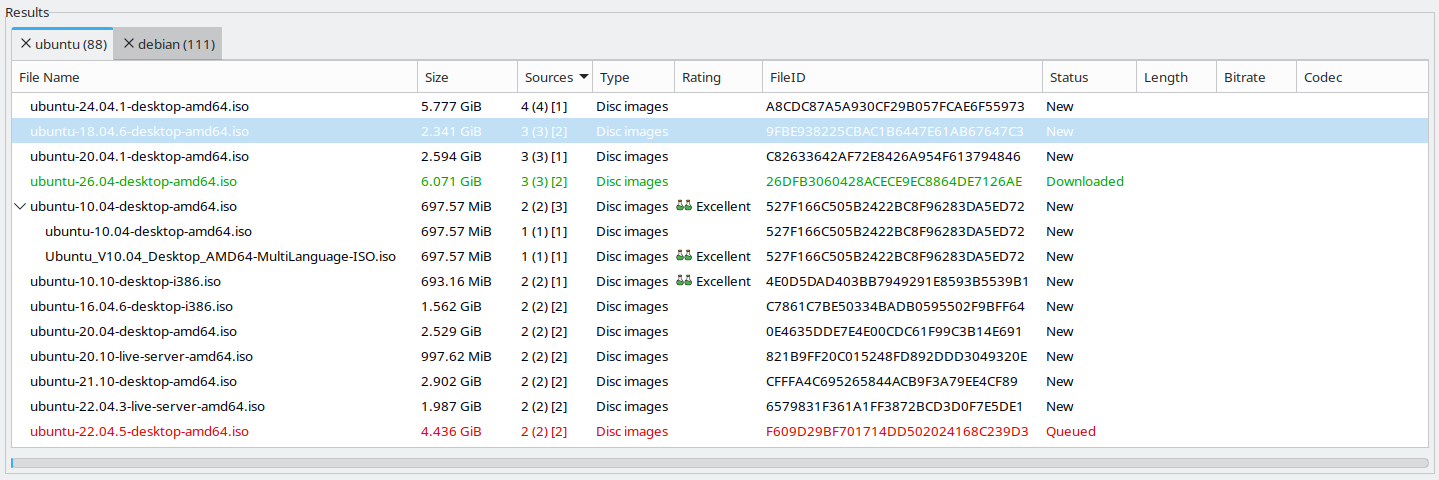
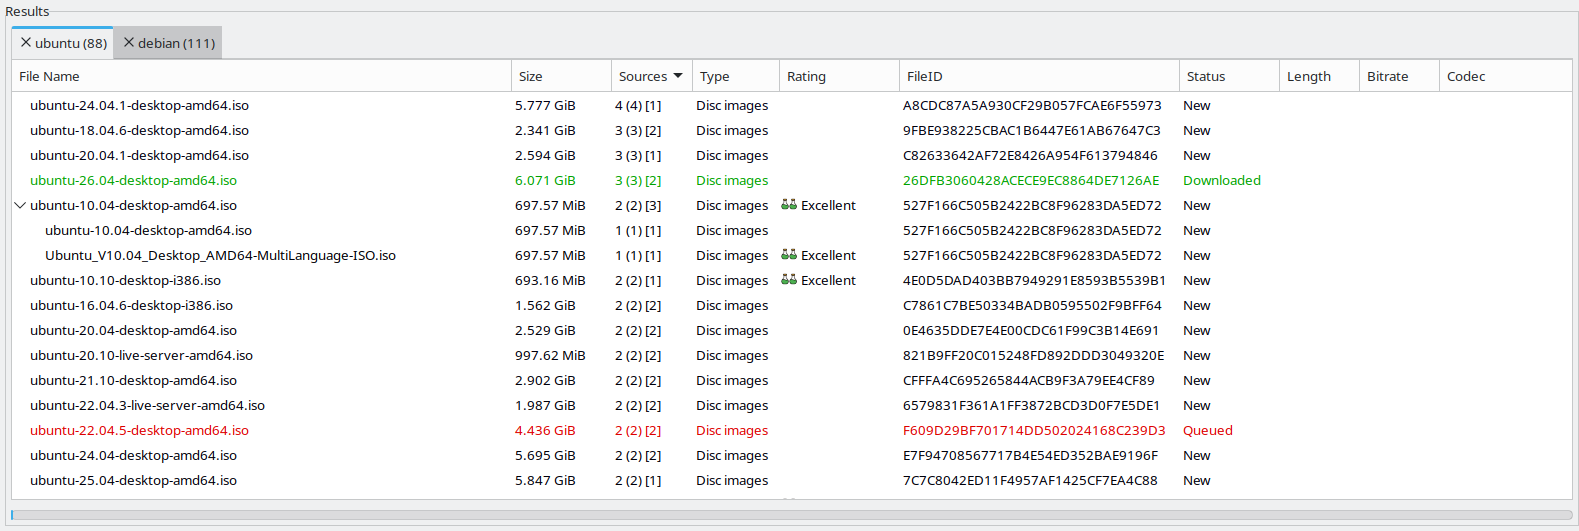
Update Quick Start guide for 3.1.0 first-run wizard, splash and version check
- Walk through the first-run setup wizard page by page, including the
  first-run Info message, finishing or cancelling it and how to run it again
- Document the startup screen and the new-version check
- Replace the removed global Connect button with the per-network buttons
- Update the first-run summaries in installation/index.md, gui/amule.md
  and faq.md
- Document last_version_notified and complete the FirstRunWizardDone entry
- Correct the Auto-update server list behaviour without addresses.dat
  (quickstart, preferences.md) and its label in the files references
- Replace the stale DEFAULT_VERSION_CHECK build option with ENABLE_VERSION_CHECK
- Add wizard, splash and version dialog screenshots; refresh the search
  results and quick start images; reuse the current Networks, status bar
  and Searches captures instead of the old top-level/quickstart copies
  (deleted)

Changed region(s): [[0.0, 0.0, 1.0, 1.0]]

diff --git a/docs/quickstart-guide.md b/docs/quickstart-guide.md
@@ -3,7 +3,7 @@ id: quickstart-guide
 title: Getting Started
 ---
 
-This guide walks you through running [aMule](./index.md) for the first time, from setting your speed limits to downloading and sharing your first files. You don't need to be familiar with the underlying networks to follow it, but you do need aMule installed on your computer.
+This guide walks you through running [aMule](./index.md) for the first time, from the first-run setup wizard to downloading and sharing your first files. You don't need to be familiar with the underlying networks to follow it, but you do need aMule installed on your computer.
 
 Each step links to the detailed reference pages in the [User Manual](./manual/index.md) if you want to go deeper.
 
@@ -15,44 +15,109 @@ aMule makes extensive use of right-click context menus. If you can't find a func
 
 If you haven't installed aMule yet, see the [Installation guide](./manual/installation/index.md) for platform-specific instructions.
 
-Launch aMule from your desktop environment's menu, or by running [`amule`](./manual/interfaces/gui/amule.md) in a terminal. The first time it starts, aMule shows a notification telling you that you are running it for the first time.
+Launch aMule from your desktop environment's menu, or by running [`amule`](./manual/interfaces/gui/amule.md) in a terminal. On the first start, aMule first shows a short **Info** message (*This is the first time you run aMule …*) with links to the website and the issue tracker; it shows the same message the first time you run each new version. Close it with **OK**, and aMule opens the setup wizard described below before it connects to any network.
 
-## 2. Set your speed limits
+## 2. Run the setup wizard {#setup-wizard}
 
-aMule ships with both upload and download caps **disabled by default** (unlimited). On a connection that aMule can saturate this is rarely what you want: it can starve every other application sharing the link, and an uncapped upload can even slow down your own downloads. **Setting realistic limits is strongly recommended.**
+The **aMule first-run setup** wizard collects the handful of settings aMule needs before it goes online. Use **Next** and **Back** to move between its pages and **Finish** on the last one. Every choice can be changed later in [Preferences](./manual/interfaces/gui/preferences.md).
 
-Open [Preferences](./manual/interfaces/gui/preferences.md) (the **Preferences** icon at the top of the window; on macOS, the **Tools** icon), then click the **Connection** tab and set the [Bandwidth Limits](./manual/interfaces/gui/preferences.md#bandwidth-limits):
+:::tip[Running the wizard again]
+aMule has no menu entry or command-line option to reopen the wizard. To run it again on an existing install, close aMule and set `FirstRunWizardDone=0` in the `[eMule]` section of [`amule.conf`](./manual/configuration/config-files/amule-conf.md#internal--layout); the wizard opens on the next start.
+:::
 
-![Bandwidth limits dialog](/img/docs/quickstart/preferences_bandwidth.png)
+### Nickname
 
-Set both **Upload** and **Download** to roughly **80% of your actual line speed**. Values are in **kilobytes per second** (kB/s), while ISP speeds are usually advertised in **megabits per second** (Mbps) — to convert, multiply the Mbps figure by **125**.
+Choose the **nickname** other peers see in their client lists and chat windows.
 
-> **Example**: a 600 Mbps / 100 Mbps fibre line ≈ 75,000 kB/s down / 12,500 kB/s up. Set the limits to about **60,000 down / 10,000 up** to stay below the line cap.
+![Welcome page of the setup wizard](/img/docs/quickstart/wizard_welcome.png)
+
+### Connection & bandwidth
+
+Pick the entry in **Connection speed** that best matches your Internet line, or keep **Other / set manually** and type the **Upload limit** and **Download limit** yourself. Values are in **KiB/s**; `0` means unlimited.
+
+![Connection & bandwidth page of the setup wizard](/img/docs/quickstart/wizard_connection.png)
+
+The presets cap the upload at about 80% of the line's upstream and leave the download unlimited; *Fibre Gigabit* leaves the upload unlimited too, so type an upload limit yourself if you choose it. The line below the fields shows the sources per file and client connections aMule will allow for that line.
+
+Setting a realistic upload limit is **strongly recommended**: an uncapped upload can starve every other application sharing the link and even slow down your own downloads. If your line is not in the list, set the upload limit to roughly **80% of your actual upstream speed** and the download limit to about 80% of your downstream speed or to `0`. ISP speeds are usually advertised in **megabits per second** (Mbps) — to convert to KiB/s, multiply the Mbps figure by **122**.
+
+> **Example**: a 600 Mbps / 100 Mbps fibre line ≈ 73,200 KiB/s down / 12,200 KiB/s up. Set the limits to about **58,000 down / 9,800 up** to stay below the line cap.
 
 :::note
 The eD2k network rewards sharing: your maximum download speed is tied to your upload limit. See [Slow Download Speeds](./manual/troubleshooting/slow-speeds.md) for the details.
 :::
 
-## 3. Connect to the networks
+You can change the limits later in [Preferences → Connection](./manual/interfaces/gui/preferences.md#bandwidth-limits).
 
-aMule can connect to two networks at the same time, and both are enabled by default:
+### Networks & ports
+
+aMule can connect to two networks at the same time. Keeping both enabled is recommended:
 
 - **[eD2k](./p2p-networks/ed2k/index.md)** — the classic server-based eDonkey network.
 - **[Kademlia (Kad)](./p2p-networks/kademlia.md)** — a serverless, distributed network that works without relying on central servers.
 
-You can disable either one in the lower part of the **Connection** [preferences](./manual/interfaces/gui/preferences.md#connection) page.
+![Networks & ports page of the setup wizard](/img/docs/quickstart/wizard_networks.png)
 
-Open the [Networks](./manual/interfaces/gui/networks.md) window. To populate the eD2k server list, click the URL text field at the top (e.g. `https://upd.emule-security.org/server.met`) and press Enter. Once the list downloads, click the large **Connect** button near the top-left to connect to both enabled networks:
+The same page sets the **Standard TCP Port** (default 4662) and the **Extended UDP port** used by Kad and global searches (default 4672). Keep the defaults unless you have a reason to change them — you will need these numbers if you [forward ports](./manual/configuration/network-connectivity.md) on your router. **Enable UPnP for router port forwarding** (checked) lets aMule ask your router to forward those ports for you; turn it off if your router does not support [UPnP](./manual/configuration/upnp.md) or you forward the ports manually.
 
-![Server list populated via ED2K](/img/docs/quickstart/networks_upper_ed2k.png)
+### Bootstrap files
 
-Wait until aMule reports a successful connection before searching; the status bar at the bottom of the window shows your eD2k server and Kad state once you are connected. For Kad, the **Connect** button is enough on first run; for manual control and updating your `nodes.dat`, see the [Networks](./manual/interfaces/gui/networks.md) page.
+To find its first peers, aMule needs an eD2k server list ([`server.met`](./manual/configuration/config-files/index.md#servermet)) and a list of Kad nodes ([`nodes.dat`](./manual/configuration/config-files/index.md#nodesdat)). Keep both boxes checked to download them.
+
+![Bootstrap files page of the setup wizard](/img/docs/quickstart/wizard_bootstrap.png)
+
+**Auto-update server list at startup** only takes effect once you add at least one server list URL with the **List** button in [Preferences → Servers](./manual/interfaces/gui/preferences.md#servers); the one-time download above does not depend on it.
+
+### Integrations (optional)
+
+This page connects aMule to your desktop:
+
+- **Start aMule automatically when I log in** — launch aMule with your desktop session.
+- **Register aMule for ed2k:// links** — open `ed2k://` links clicked in a browser or file manager in aMule.
+- **Register aMule for magnet: links** — aMule only handles eD2k-compatible magnet links, so leave this off if you use a BitTorrent client.
+- **Open .emulecollection files with aMule** — open eMule collection files from the file manager.
+
+![Integrations page of the setup wizard](/img/docs/quickstart/wizard_integrations.png)
+
+You can change these later in [Preferences → General](./manual/interfaces/gui/preferences.md#general).
+
+### Folders (optional)
+
+The last page sets the **Destination folder for downloads** (the *Incoming* directory, where finished files go) and the **Folder for temporary download files** (the *Temporary* directory, where in-progress downloads live). The defaults are fine for most people; change them if you want downloads on a different, larger disk. Remember that **every file in the Incoming folder is shared** with other peers.
+
+![Folders page of the setup wizard](/img/docs/quickstart/wizard_folders.png)
+
+### Finishing or cancelling the wizard
+
+Click **Finish** to save your choices. aMule then starts up and downloads the bootstrap files you selected.
+
+If you close the wizard with **Cancel** instead, aMule asks whether to **show the setup wizard again the next time you start aMule**. Either way it starts with the settings it already had and downloads nothing, so [fill the server list by hand](#3-connect-to-the-networks). If you answered **No**, later starts show a small **Network bootstrap** dialog instead, offering to download any list that is still missing.
+
+### After the wizard: startup screen
+
+While aMule loads your downloads and scans your shared files, it shows a startup screen with a progress bar. The main window opens when the scan is done.
+
+![aMule startup screen](/img/docs/quickstart/splash.png)
+
+## 3. Connect to the networks
+
+If you let the wizard download the bootstrap files, there is nothing else to do: aMule connects to an eD2k server as soon as the server list arrives, and starts Kad once the nodes list is in place. On later starts, **Autoconnect on startup** in [Preferences → Connection](./manual/interfaces/gui/preferences.md#networks) (on by default) connects both enabled networks automatically.
+
+Wait until aMule reports a successful connection before searching; the status bar at the bottom of the window shows your eD2k server and Kad state once you are connected.
+
+To connect or disconnect by hand, open the [Networks](./manual/interfaces/gui/networks.md) window: each network has its own button at the top right of its tab — **Connect ED2K** on the [ED2K tab](./manual/interfaces/gui/networks.md#connecting) and **Connect Kad** on the [Kad tab](./manual/interfaces/gui/networks.md#connecting-kad). The **Connect** entry of the [system tray menu](./manual/interfaces/gui/tray-icon.md#context-menu) connects both enabled networks at once.
+
+If you skipped the server list download, click the URL text field at the top of the ED2K tab (e.g. `https://upd.emule-security.org/server.met`) and press Enter to [populate the server list](./manual/interfaces/gui/networks.md#updating-the-server-list-from-a-url); aMule connects once the list has downloaded:
+
+![Server list populated via ED2K](/img/docs/gui_networks/networks_upper_ed2k.png)
+
+For Kad without a nodes list, see [Updating the Nodes List from a URL](./manual/interfaces/gui/networks.md#updating-the-nodes-list-from-a-url).
 
 ### High or Low ID
 
 P2P networks need clients to reach each other directly, so a firewall or router that blocks aMule's ports can cause problems. Check the [globe icon](./manual/interfaces/gui/statusbar.md#globe-icon) in the bottom-right corner of the window:
 
-![Network connection status in the status bar](/img/docs/quickstart/statusbar_networks.png)
+![Network connection status in the status bar](/img/docs/gui_statusbar/statusbar_networks.png)
 
 - **Green arrows** — you have a **[High ID](./p2p-networks/ed2k/high-id.md)** and full connectivity. Proceed normally.
 - **Yellow arrows** — you have a **[Low ID](./p2p-networks/ed2k/high-id.md)**, which greatly reduces performance. You'll need to open and forward aMule's ports. See [Network Connectivity](./manual/configuration/network-connectivity.md) for step-by-step instructions.
@@ -61,7 +126,7 @@ P2P networks need clients to reach each other directly, so a firewall or router 
 
 Once connected, click the **Searches** button to open the [Searches](./manual/interfaces/gui/searches.md) window. Enter a term in the **Name** field, pick a search type, and press Enter:
 
-![Search dialog](/img/docs/search_dialog.png)
+![Search dialog](/img/docs/gui_searches/searches.png)
 
 - **Local** — asks only the server you are currently connected to. Fast and usually enough.
 - **Global** — asks every server in your list. Slower, but broader.
@@ -69,9 +134,9 @@ Once connected, click the **Searches** button to open the [Searches](./manual/in
 
 Double-click a result (or select it and click **Download**) to queue it:
 
-![Search results](/img/docs/search_results.png)
+![Search results](/img/docs/gui_searches/searches_results.png)
 
-Results are colour-coded: **blue** = not downloaded (brighter blue = more sources), **red** = already in your queue, **green** = already downloaded or shared, **magenta** = previously cancelled.
+Results are [colour-coded](./manual/interfaces/gui/searches.md#result-row-colours): **blue** = not downloaded (from the normal text colour with few sources to strong blue with many), **red** = already in your queue, **green** = already downloaded or shared, **magenta** = previously cancelled.
 
 The Searches page also supports [Boolean expressions](./manual/interfaces/gui/searches.md#search-logic-boolean-operators) (`AND`, `OR`, `NOT`), file-type and size [filters](./manual/interfaces/gui/searches.md#extended-parameters), and a [regular-expression result filter](./manual/interfaces/gui/searches.md#filtering).
 
@@ -98,6 +163,22 @@ It is **your** responsibility to ensure that you do not violate any laws regardi
    ![Reload shared files button](/img/docs/quickstart/shared_files_reload_button.png)
 
 2. **Add shared directories in Preferences.** Open [**Preferences → Directories**](./manual/interfaces/gui/preferences.md#directories), browse to a folder, and double-click it to share it (or right-click to share it recursively, including subdirectories).
+
+## Keeping aMule up to date {#version-check}
+
+aMule checks for a newer release on GitHub at startup and once a day while it runs. When one is available, it shows a **New version available** dialog:
+
+![New version available dialog](/img/docs/quickstart/new_version_available.png)
+
+- **Yes** opens the [GitHub releases page](https://github.com/amule-org/amule/releases/latest) in your browser, where you can download the new version. See the [Downloads](/download) page for which file to pick.
+- **No** closes the dialog until the next start.
+- Tick **Don't ask again** to stop the reminder for **that version only**; a later release shows the dialog again.
+
+You can also check at any time with the **Check for updates** button in the [About](./manual/interfaces/gui/toolbar.md) window. To turn off the automatic check, uncheck **Periodically check for a new version** in [Preferences → General](./manual/interfaces/gui/preferences.md#general).
+
+:::note
+aMule installed from an operating-system package manager usually has no version check: updates come from the package manager.
+:::
 
 ## Next steps
 

diff --git a/docs/manual/configuration/config-files/index.md b/docs/manual/configuration/config-files/index.md
@@ -73,6 +73,7 @@ If a directory named `config` exists next to the aMule executable (in its workin
 | [`lastversion`](#lastversion) | History of the 10 most recently launched aMule versions |
 | [`last_version_check`](#last_version_check) | Latest release info fetched from GitHub (Releases API JSON) |
 | [`last_version`](#last_version_check) | Rename destination of a successful version-check download |
+| [`last_version_notified`](#last_version_notified) | Release version muted with **Don't ask again** in the new-version dialog |
 | [`key_index.dat`](#kad-index-files) | Kademlia keyword data this client publishes to the network |
 | [`src_index.dat`](#kad-index-files) | Kademlia source data this client publishes to the network |
 | [`load_index.dat`](#kad-index-files) | Kademlia client keyIDs and last-seen timestamps |
@@ -214,7 +215,7 @@ For its line format, see the [`staticservers.dat` format reference](../../../dev
 
 **Location:** `~/.aMule/addresses.dat`
 
-A plain-text list of URLs from which aMule downloads `server.met` files on startup (if the "Update server list on startup" preference is enabled). The downloaded lists are merged into `~/.aMule/server.met`.
+A plain-text list of URLs from which aMule downloads `server.met` files on startup (if the **Auto-update server list at startup** preference is enabled). The downloaded lists are merged into `~/.aMule/server.met`.
 
 For its format, see the [`addresses.dat` format reference](../../../developer/file-formats/index.md#addressesdat).
 
@@ -487,6 +488,12 @@ Plain-text file recording the last 10 aMule versions launched on this machine, i
 File holding the response of aMule's update check. aMule queries the GitHub Releases API (`https://api.github.com/repos/amule-org/amule/releases/latest`) and stores the returned JSON here; it then extracts the `tag_name` field and compares it with the running version to notify the user of updates. On a successful download the file is renamed to `last_version`.
 
 This replaces the legacy single-line `lastversion` text file that was fetched from SourceForge, which has been unmaintained since the project moved to GitHub.
+
+### `last_version_notified`
+
+**Location:** `~/.aMule/last_version_notified`
+
+Single-line plain-text file holding the release version for which the user ticked **Don't ask again** in the [New version available](../../../quickstart-guide.md#version-check) dialog. aMule does not show the dialog for that version again, but a newer release shows it once more. The file is written only when the checkbox is ticked; delete it to be reminded of the muted version again.
 
 ## Kademlia index files
 

diff --git a/docs/manual/interfaces/gui/amule.md b/docs/manual/interfaces/gui/amule.md
@@ -31,7 +31,7 @@ Launch from a terminal:
 amule
 ```
 
-On first run, aMule creates its [configuration directory](../../configuration/config-files/index.md) (`~/.aMule/`) and presents a first-run wizard for basic setup (nickname, bandwidth, networks and ports, download and temporary directories).
+On first run, aMule creates its [configuration directory](../../configuration/config-files/index.md) (`~/.aMule/`) and presents a [first-run setup wizard](../../../quickstart-guide.md#setup-wizard) for basic setup (nickname, bandwidth, networks and ports, bootstrap files, desktop integration, download and temporary directories).
 
 Command-line flags:
 
@@ -63,6 +63,6 @@ The aMule interface is divided into several panels, switched with the [toolbar](
 
 ## ED2K Link Integration
 
-aMule can register itself with the operating system as the handler for `ed2k://` and `magnet:` links and for `.emulecollection` files, so clicking one in a browser or file manager queues it in aMule. Turn this on in the first-run wizard, with the **Register aMule for ed2k:// links**, **Register aMule for magnet: links** and **Open .emulecollection files with aMule** options in [Preferences → General](./preferences.md#general), or from the command line with `--configure-protocols` and `--configure-file-assoc` (see above). A link opened this way is passed to the running aMule instance through the ED2KLinks file.
+aMule can register itself with the operating system as the handler for `ed2k://` and `magnet:` links and for `.emulecollection` files, so clicking one in a browser or file manager queues it in aMule. Turn this on in the [first-run wizard](../../../quickstart-guide.md#setup-wizard), with the **Register aMule for ed2k:// links**, **Register aMule for magnet: links** and **Open .emulecollection files with aMule** options in [Preferences → General](./preferences.md#general), or from the command line with `--configure-protocols` and `--configure-file-assoc` (see above). A link opened this way is passed to the running aMule instance through the ED2KLinks file.
 
 For the separate `ed2k` command-line helper, how the ED2KLinks file works, and handling links for a remote core, see [ed2k — ED2K Link Handler](../../utilities/ed2k.md).

diff --git a/docs/manual/interfaces/gui/preferences.md b/docs/manual/interfaces/gui/preferences.md
@@ -132,7 +132,7 @@ Options for connecting aMule to eD2k servers. This page is removed from the dial
 | Setting | Description |
 |---|---|
 | **Remove dead server after _n_ retries** | Number of times a server may fail before it is removed from the server list. Failed connection attempts and failed UDP pings add to one counter: the periodic ping sweep removes a server once it reaches _n_, and the sweep after a successful server connection removes servers above _n_. Servers marked **static** are never removed, even when unreachable. Range 1–10, default 3; the number field is enabled only while the checkbox is ticked. |
-| **Auto-update server list at startup** | Download the server list from one or more URLs at startup. Click the **List** button to edit URLs (stored in `addresses.dat`); the checkbox cannot be ticked while that list is empty. |
+| **Auto-update server list at startup** | Download the server list from one or more URLs at startup. Click the **List** button to edit URLs (stored in `addresses.dat`). The checkbox cannot be ticked while `addresses.dat` exists but is empty. A fresh install has no `addresses.dat` at all: the checkbox can then be ticked, but nothing is downloaded and aMule only logs that no address was found at every start. |
 | **Update server list when connecting to a server** | After connecting to a server, request its full list of known servers and add any new entries. |
 | **Update server list when a client connects** | When connecting to a client, request its server ID and add it if not already known. |
 | **Use priority system** | Assign Low/Normal/High priority to servers via right-click. aMule contacts servers in priority order. |

diff --git a/docs/manual/configuration/config-files/amule-conf.md b/docs/manual/configuration/config-files/amule-conf.md
@@ -246,12 +246,12 @@ Settings behind the [Statistics](../../interfaces/gui/statistics.md) window's gr
 
 ### Internal / layout
 
-These keys are managed by aMule. Editing them manually is not recommended.
+These keys are managed by aMule. Editing them manually is not recommended, except where a key's description says otherwise.
 
 | Key | Description |
 |---|---|
 | `SmartIdState` | Cached result of the Smart ID check (internal state). |
-| `FirstRunWizardDone` | Set to `1` after the first-run setup wizard has completed. Written by aMule. |
+| `FirstRunWizardDone` | Whether the [first-run setup wizard](../../../quickstart-guide.md#setup-wizard) is done. Written by aMule: set to `1` when the wizard is finished, when it is cancelled and the user chooses not to see it again, and on installs upgraded from a version without this key. Set it to `0` while aMule is closed to run the wizard again on the next start. |
 | `MaxConPerFiveDefaultBumped` | One-shot migration marker, set after the `MaxConnectionsPerFiveSeconds` default was raised from 20 to 50. Written by aMule; do not edit. |
 | `TableOrdering<Name>`, `TableWidths<Name>` | Column sort order and widths for each list. `<Name>` is the list name: `Server`, `Download`, `Shared`, `Search`, `Sources`, `Peers`, `ClientsDown`, `ClientsUp`, `ClientHistory`, `Friend`, `FileDetail`. `TableOrdering` is a comma-separated list of `<column>:<descending 0/1>:<alternate 0/1>` entries; `TableWidths` is a comma-separated list of `<column>:<width>` entries, where a zero or negative width marks a hidden column. `<column>` is the column's short internal code (e.g. `S`). |
 

diff --git a/docs/manual/installation/index.md b/docs/manual/installation/index.md
@@ -397,6 +397,6 @@ Once aMule is installed, the first launch creates the configuration directory:
 
 See the [aMule Files Reference](../configuration/config-files/index.md) for a complete description of every file and directory created by aMule.
 
-aMule ships with reasonable defaults and can be used as-is. To connect to the [eD2k network](../../p2p-networks/ed2k/index.md) and start downloading, follow the [Quick Start Guide](../../quickstart-guide.md), which walks through the initial bandwidth configuration, eD2k server / [Kademlia](../../p2p-networks/kademlia.md) connection, and your first search.
+aMule ships with reasonable defaults and can be used as-is. To connect to the [eD2k network](../../p2p-networks/ed2k/index.md) and start downloading, follow the [Quick Start Guide](../../quickstart-guide.md), which walks through the [first-run setup wizard](../../quickstart-guide.md#setup-wizard) (nickname, bandwidth, networks and ports, bootstrap files, desktop integration and folders), connecting to eD2k and [Kademlia](../../p2p-networks/kademlia.md), and your first search.
 
 To receive a [High ID](../configuration/network-connectivity.md) (required for optimal connectivity and download speeds), you will need to open aMule's ports on your firewall or router. The [Firewall configuration](../configuration/firewall.md) page explains how to do this.

diff --git a/docs/manual/faq.md b/docs/manual/faq.md
@@ -17,7 +17,7 @@ aMule runs on Windows, macOS, Linux, FreeBSD, and OpenBSD. Any modern Linux dist
 
 #### I just installed aMule for the first time. How do I set it up?
 
-The [Quick Start guide](../quickstart-guide.md) walks through first-run setup step by step: nickname and language, bandwidth limits, Temp/Incoming directories, choosing what to share, and connecting and searching. For optimal download speeds, also read [What are the best settings for a nice download rate?](#what-are-the-best-settings-i-can-set-to-have-a-nice-download-rate)
+The [Quick Start guide](../quickstart-guide.md) walks through first-run setup step by step: the setup wizard (nickname, bandwidth, networks and ports, bootstrap files, desktop integration and folders), connecting to eD2k and Kad, searching, downloading, and choosing what to share. For optimal download speeds, also read [What are the best settings for a nice download rate?](#what-are-the-best-settings-i-can-set-to-have-a-nice-download-rate)
 
 For more help, ask on [GitHub Discussions](https://github.com/amule-org/amule/discussions) — the project's community forum and the best place to get answers. The legacy [aMule forums](https://forum.amule.org) and the `#aMule` channel on [`irc.libera.chat`](https://web.libera.chat/#aMule) are still around, but most activity has moved to GitHub.
 

diff --git a/docs/developer/compilation/index.md b/docs/developer/compilation/index.md
@@ -85,7 +85,7 @@ All options are passed as `-DOPTION=YES` or `-DOPTION=NO` to the initial `cmake 
 | `ENABLE_MMAP` | NO | Use memory-mapped file I/O where supported |
 | `DOWNLOAD_AND_BUILD_DEPS` | NO | When an optional dependency is missing, let CMake download and build it from source instead of failing (requires Git) |
 | `ENABLE_CCACHE` | AUTO | Use [ccache](https://ccache.dev/) as compiler launcher when found (`AUTO`/`ON`/`OFF`). Set `OFF` for distro builds that wrap the compiler themselves; set `ON` to hard-fail when ccache is missing |
-| `DEFAULT_VERSION_CHECK` | ON | Initial state of the in-app "Check for new aMule version" preference on fresh installs. Set `OFF` for OS-package builds where the distro's own update mechanism owns version notifications |
+| `ENABLE_VERSION_CHECK` | ON | Compile in the [in-app new-version check](../../quickstart-guide.md#version-check): the startup and daily check with its notification, the **Periodically check for a new version** preference and the About window's **Check for updates** button. Set `OFF` for OS-package builds: the whole feature is compiled out, nothing contacts GitHub, and the distro's package manager owns updates |
 
 To list all available options with descriptions:
 

diff --git a/docs/developer/file-formats/index.md b/docs/developer/file-formats/index.md
@@ -129,7 +129,7 @@ Lines beginning with `/` or `#` are treated as comments and ignored. Any line th
 
 ## `addresses.dat` {#addressesdat}
 
-A plain-text list of URLs from which aMule downloads `server.met` files on startup (if the "Update server list on startup" preference is enabled). The downloaded lists are merged into `~/.aMule/server.met`.
+A plain-text list of URLs from which aMule downloads `server.met` files on startup (if the **Auto-update server list at startup** preference is enabled). The downloaded lists are merged into `~/.aMule/server.met`.
 
 ### Format
 
